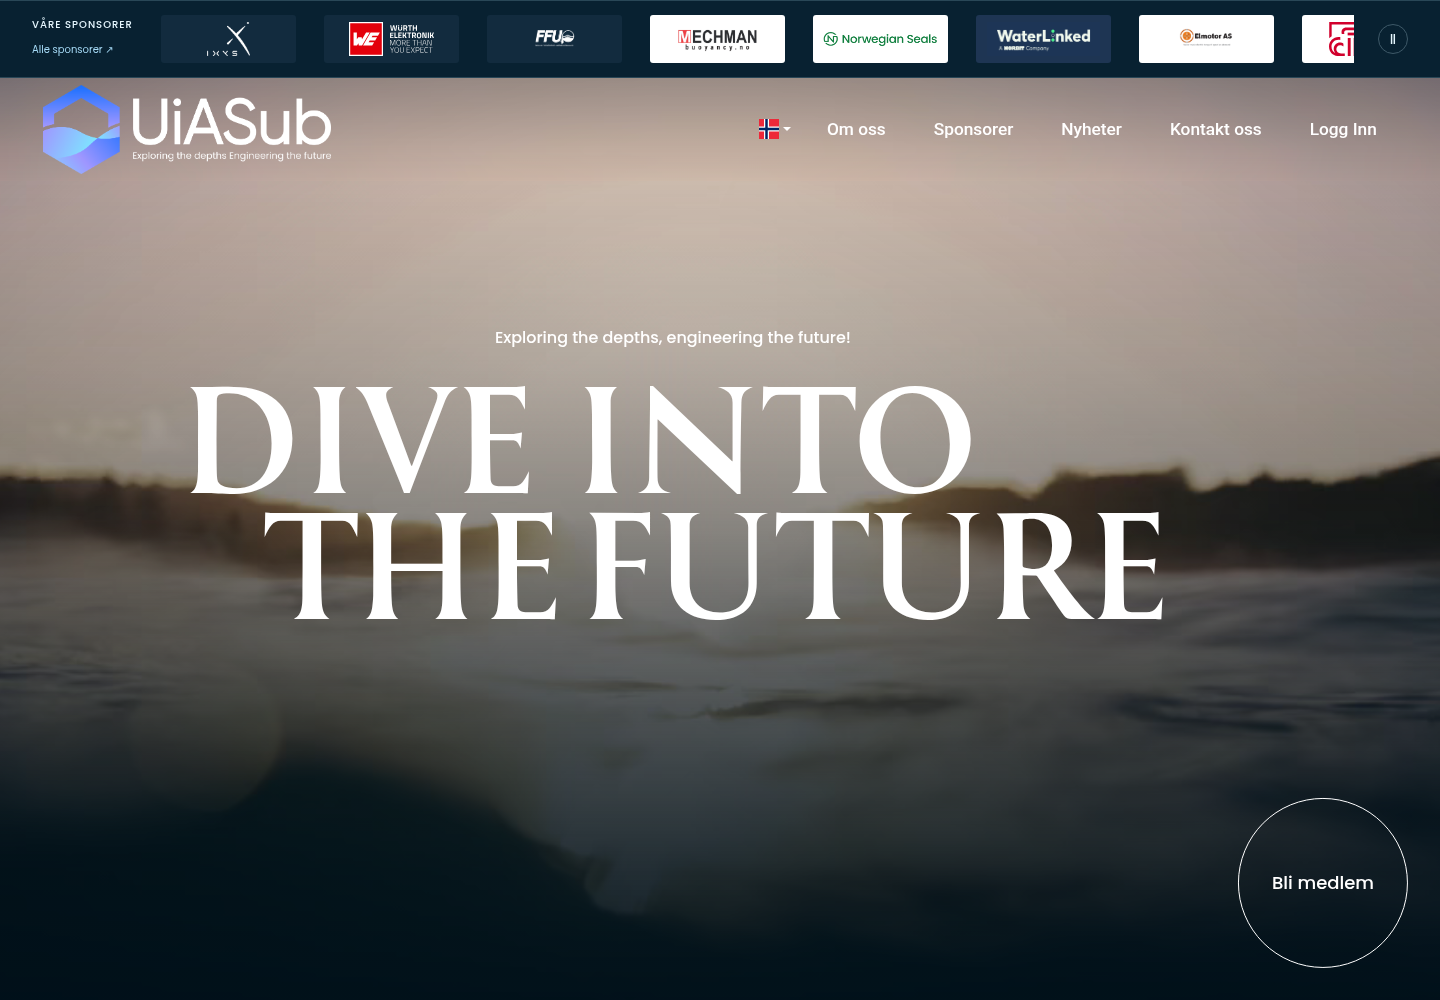
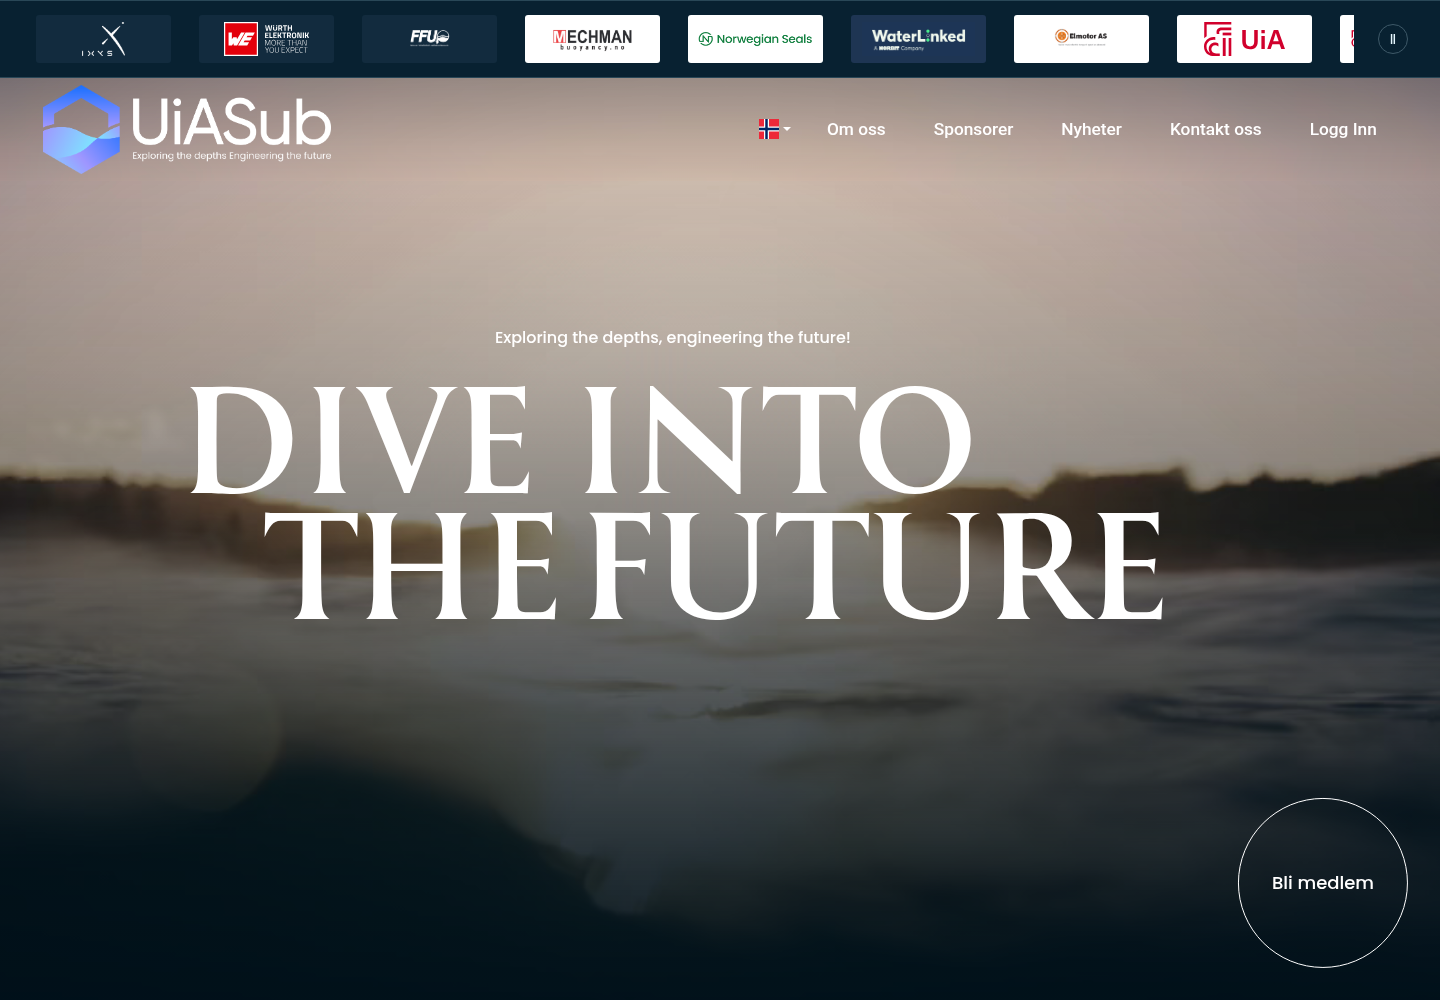
fix(home): remove redundant sponsor bar labels

Changed region(s): [[0.3438, 0.0, 0.9375, 0.062], [0.1562, 0.0, 0.3125, 0.062], [0.0312, 0.0, 0.0938, 0.062]]

diff --git a/css/home-sponsors.css b/css/home-sponsors.css
@@ -5,15 +5,11 @@
 }
 .home-sponsors[hidden] { display: none; }
 .home-sponsors__inner { width: min(1280px, calc(100% - 80px)); margin: 0 auto; }
-.home-sponsors__heading { display: flex; align-items: center; justify-content: space-between; gap: 16px; margin-bottom: 20px; }
-.home-sponsors h2 { font: 500 14px/1.5 "Poppins", sans-serif; letter-spacing: .12em; text-transform: uppercase; margin: 0; }
-.home-sponsors__all { color: #a5d9f5; font-size: 12px; text-decoration: none; white-space: nowrap; }
-.home-sponsors__all:hover { color: white; text-decoration: underline; }
 .home-sponsors__logos { list-style: none; padding: 0; margin: 0; }
 .home-sponsors__logo { min-width: 0; }
 .home-sponsors__logo a { display: flex; align-items: center; justify-content: center; height: 88px; padding: 14px 20px; background: #fff; border-radius: 5px; transition: box-shadow .2s; }
 .home-sponsors__logo a:hover { box-shadow: 0 0 0 2px #44b8ff; }
-.home-sponsors__logo a:focus-visible, .home-sponsors button:focus-visible, .home-sponsors__all:focus-visible { outline: 3px solid #44b8ff; outline-offset: 4px; }
+.home-sponsors__logo a:focus-visible, .home-sponsors button:focus-visible { outline: 3px solid #44b8ff; outline-offset: 4px; }
 .home-sponsors__logo--dark a { background: #122b3e; }
 .home-sponsors__logo--waterlinked a { background: #1e3553; }
 .home-sponsors__logo img { display: block; width: 100%; height: 100%; object-fit: contain; }
@@ -21,9 +17,6 @@
 .home-sponsors button:hover { background: #17384c; }
 @media (max-width: 700px) {
   .home-sponsors__inner { width: calc(100% - 36px); }
-  .home-sponsors__heading { gap: 8px; margin-bottom: 16px; }
-  .home-sponsors h2 { font-size: 11px; letter-spacing: .08em; }
-  .home-sponsors__all { font-size: 11px; }
   .home-sponsors__logo a { padding: 10px 12px; height: 70px; }
 }
 @media (prefers-reduced-motion: reduce) {
@@ -32,9 +25,6 @@
 
 .home-sponsors { position: fixed; top: 0; left: 0; right: 0; z-index: 1090; background: #082131; border-top: 1px solid #294757; border-bottom: 1px solid #294757; }
 .home-sponsors__inner { width: calc(100% - 64px); display: flex; align-items: center; gap: 24px; height: 76px; }
-.home-sponsors__heading { flex-shrink: 0; margin: 0; display: block; }
-.home-sponsors h2 { font-size: 10px; letter-spacing: .1em; margin-bottom: 3px; }
-.home-sponsors__all { font-size: 10px; }
 .home-sponsors__viewport { flex: 1; min-width: 0; overflow-x: auto; scrollbar-width: none; padding: 4px; }
 .home-sponsors__viewport::-webkit-scrollbar { display: none; }
 .home-sponsors__logos { display: flex; width: max-content; gap: 28px; animation: sponsor-drift 45s linear infinite; }
@@ -45,7 +35,6 @@
 @keyframes sponsor-drift { to { transform: translateX(-50%); } }
 @media (max-width: 700px) {
   .home-sponsors__inner { width: calc(100% - 24px); gap: 12px; height: 68px; }
-  .home-sponsors h2 { font-size: 9px; }
   .home-sponsors__logo { flex-basis: 120px; width: 120px; }
   .home-sponsors__logos { gap: 16px; }
 }

diff --git a/index.html b/index.html
@@ -48,12 +48,8 @@
   <div id="header"></div>
   <script src="js/header.js"></script>
 
-  <section class="home-sponsors" aria-labelledby="home-sponsors-heading" hidden>
+  <section class="home-sponsors" aria-label="Sponsorer" hidden>
     <div class="home-sponsors__inner">
-      <div class="home-sponsors__heading">
-        <h2 id="home-sponsors-heading">Våre sponsorer</h2>
-        <a class="home-sponsors__all" href="/pages/sponsors.html">Alle sponsorer <span aria-hidden="true">↗</span></a>
-      </div>
       <div class="home-sponsors__viewport"><ul class="home-sponsors__logos" aria-label="Sponsorer"></ul></div>
       <button type="button" data-sponsor-toggle aria-label="Sett sponsorlinjen på pause" aria-pressed="false">Ⅱ</button>
     </div>

diff --git a/en/index.html b/en/index.html
@@ -48,12 +48,8 @@
   <div id="header"></div>
   <script src="/js/header.js"></script>
 
-  <section class="home-sponsors" aria-labelledby="home-sponsors-heading" hidden>
+  <section class="home-sponsors" aria-label="Sponsors" hidden>
     <div class="home-sponsors__inner">
-      <div class="home-sponsors__heading">
-        <h2 id="home-sponsors-heading">Our sponsors</h2>
-        <a class="home-sponsors__all" href="/en/pages/sponsors.html">All sponsors <span aria-hidden="true">↗</span></a>
-      </div>
       <div class="home-sponsors__viewport"><ul class="home-sponsors__logos" aria-label="Sponsors"></ul></div>
       <button type="button" data-sponsor-toggle aria-label="Pause sponsor ticker" aria-pressed="false">Ⅱ</button>
     </div>
